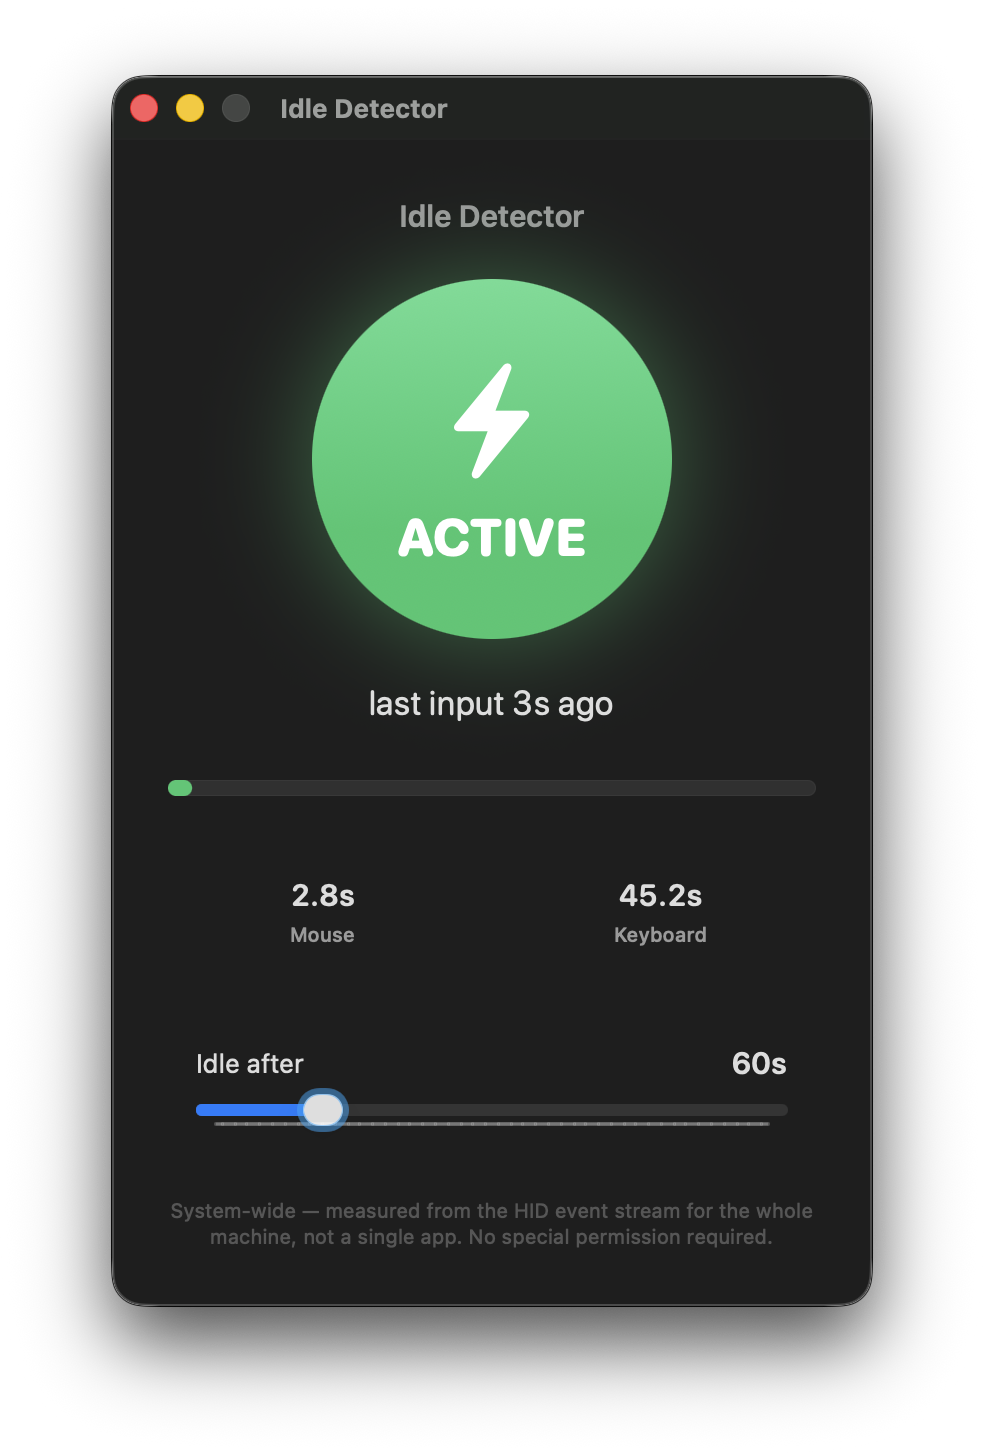
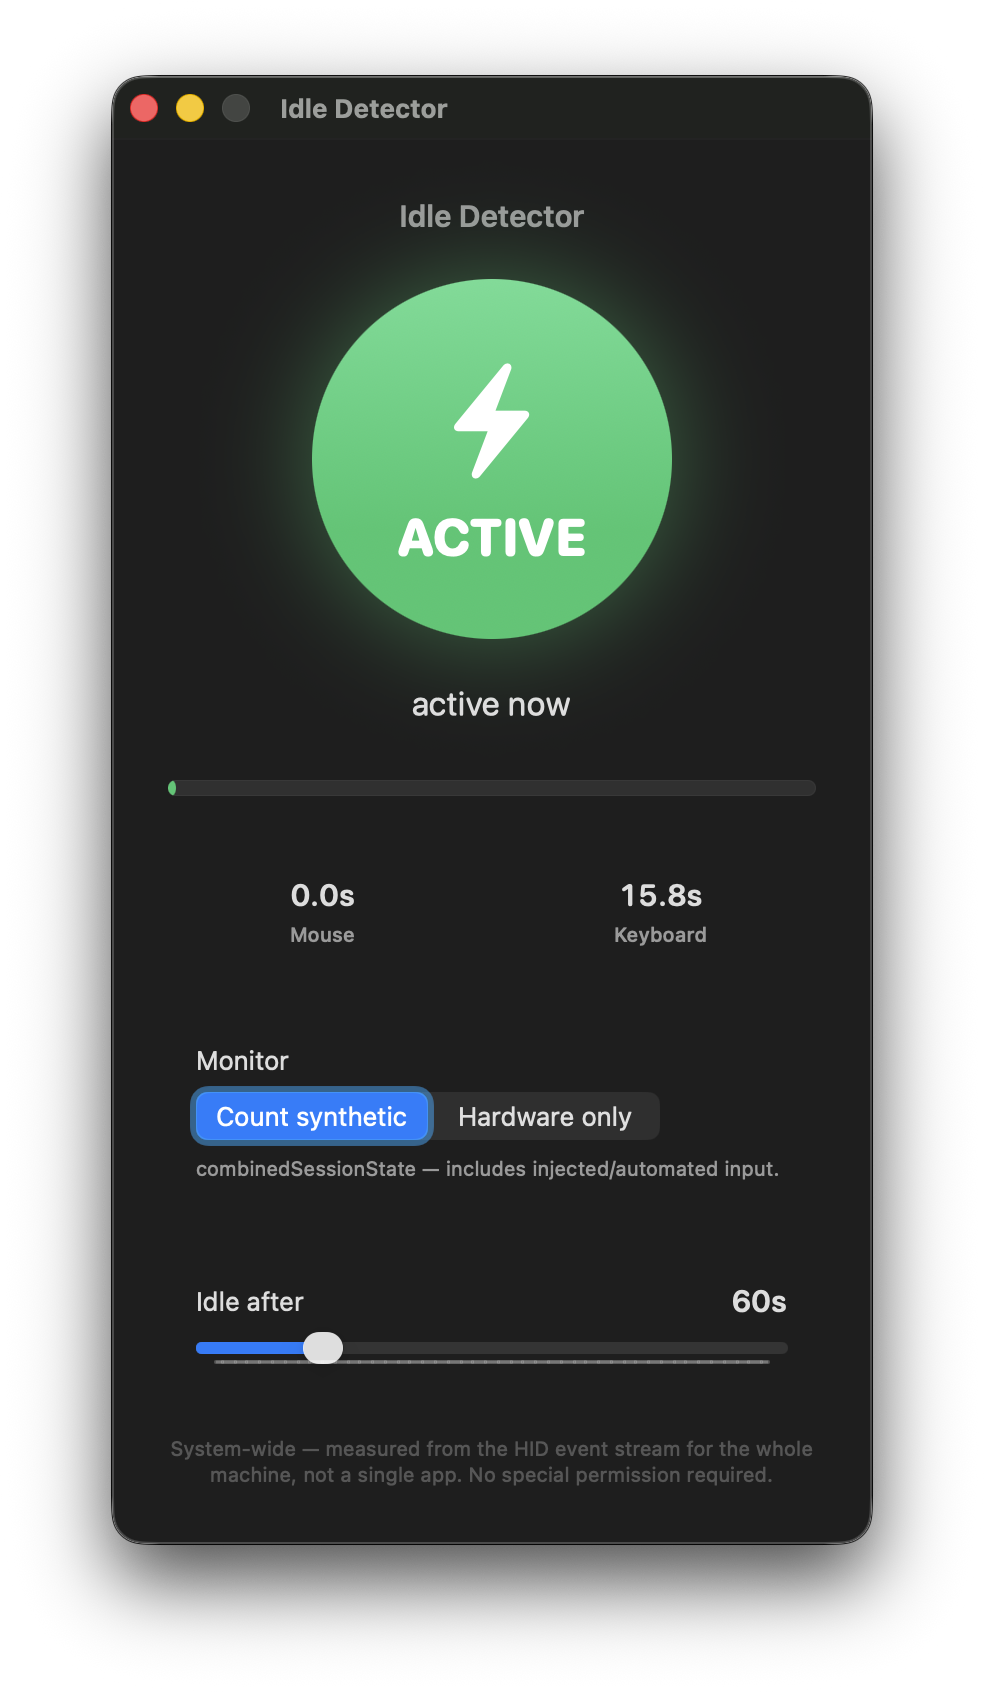
Add Monitor source toggle: count synthetic input vs hardware only
A segmented control switches the IdleMonitor between combinedSessionState
(counts injected/automated input) and hidSystemState (physical devices only),
making the synthetic-vs-human distinction visible live.

diff --git a/IdleDetector/IdleMonitor.swift b/IdleDetector/IdleMonitor.swift
@@ -13,6 +13,40 @@ import CoreGraphics
 import Foundation
 import Observation
 
+/// Which event-state table idle time is read from. The two behave identically for real
+/// hardware, but diverge for synthetic input: `.combinedSession` counts events injected into
+/// the session, while `.hidSystem` reflects only the physical devices (synthetic input posted
+/// above the HID layer is invisible to it).
+enum IdleSource: String, CaseIterable, Identifiable {
+    case combinedSession
+    case hidSystem
+
+    var id: String { rawValue }
+
+    var stateID: CGEventSourceStateID {
+        switch self {
+        case .combinedSession: return .combinedSessionState
+        case .hidSystem: return .hidSystemState
+        }
+    }
+
+    /// Short label for the picker.
+    var title: String {
+        switch self {
+        case .combinedSession: return "Count synthetic"
+        case .hidSystem: return "Hardware only"
+        }
+    }
+
+    /// One-line explanation shown under the picker.
+    var detail: String {
+        switch self {
+        case .combinedSession: return "combinedSessionState — includes injected/automated input."
+        case .hidSystem: return "hidSystemState — physical mouse & keyboard only."
+        }
+    }
+}
+
 @MainActor
 @Observable
 final class IdleMonitor {
@@ -27,6 +61,10 @@ final class IdleMonitor {
 
     /// How long input must be absent before the user is considered idle (seconds).
     var idleThreshold: Double = 60
+
+    /// Which event-state table is queried. Switching it lets you watch synthetic input count
+    /// (or not) toward activity in real time.
+    var source: IdleSource = .combinedSession
 
     /// Whether the user is currently considered idle, per `idleThreshold`.
     var isIdle: Bool { idleSeconds >= idleThreshold }
@@ -73,15 +111,16 @@ final class IdleMonitor {
     }
 
     private func sample() {
-        mouseIdleSeconds = Self.idleTime(for: Self.mouseEvents)
-        keyboardIdleSeconds = Self.idleTime(for: Self.keyboardEvents)
+        let state = source.stateID
+        mouseIdleSeconds = Self.idleTime(state, Self.mouseEvents)
+        keyboardIdleSeconds = Self.idleTime(state, Self.keyboardEvents)
         idleSeconds = min(mouseIdleSeconds, keyboardIdleSeconds)
     }
 
-    /// Smallest "seconds since last event" across a set of event types, system-wide.
-    private static func idleTime(for types: [CGEventType]) -> Double {
+    /// Smallest "seconds since last event" across a set of event types, for the given state table.
+    private static func idleTime(_ state: CGEventSourceStateID, _ types: [CGEventType]) -> Double {
         let samples = types.map {
-            CGEventSource.secondsSinceLastEventType(.combinedSessionState, eventType: $0)
+            CGEventSource.secondsSinceLastEventType(state, eventType: $0)
         }
         return samples.min() ?? 0
     }

diff --git a/IdleDetector/ContentView.swift b/IdleDetector/ContentView.swift
@@ -40,6 +40,8 @@ struct ContentView: View {
                 StatTile(label: "Keyboard", seconds: monitor.keyboardIdleSeconds)
             }
 
+            sourceControl(source: $monitor.source)
+
             thresholdControl(threshold: $monitor.idleThreshold)
 
             Text("System-wide — measured from the HID event stream for the whole machine, not a single app. No special permission required.")
@@ -68,6 +70,25 @@ struct ContentView: View {
         }
         .frame(width: 180, height: 180)
         .animation(.easeInOut(duration: 0.3), value: monitor.isIdle)
+    }
+
+    private func sourceControl(source: Binding<IdleSource>) -> some View {
+        VStack(alignment: .leading, spacing: 8) {
+            Text("Monitor")
+            Picker("Monitor", selection: source) {
+                ForEach(IdleSource.allCases) { option in
+                    Text(option.title).tag(option)
+                }
+            }
+            .pickerStyle(.segmented)
+            .labelsHidden()
+            Text(source.wrappedValue.detail)
+                .font(AppFont.caption)
+                .foregroundStyle(.secondary)
+        }
+        .frame(maxWidth: .infinity, alignment: .leading)
+        .padding(14)
+        .background(AppTheme.cardBackground, in: RoundedRectangle(cornerRadius: 10))
     }
 
     private func thresholdControl(threshold: Binding<Double>) -> some View {